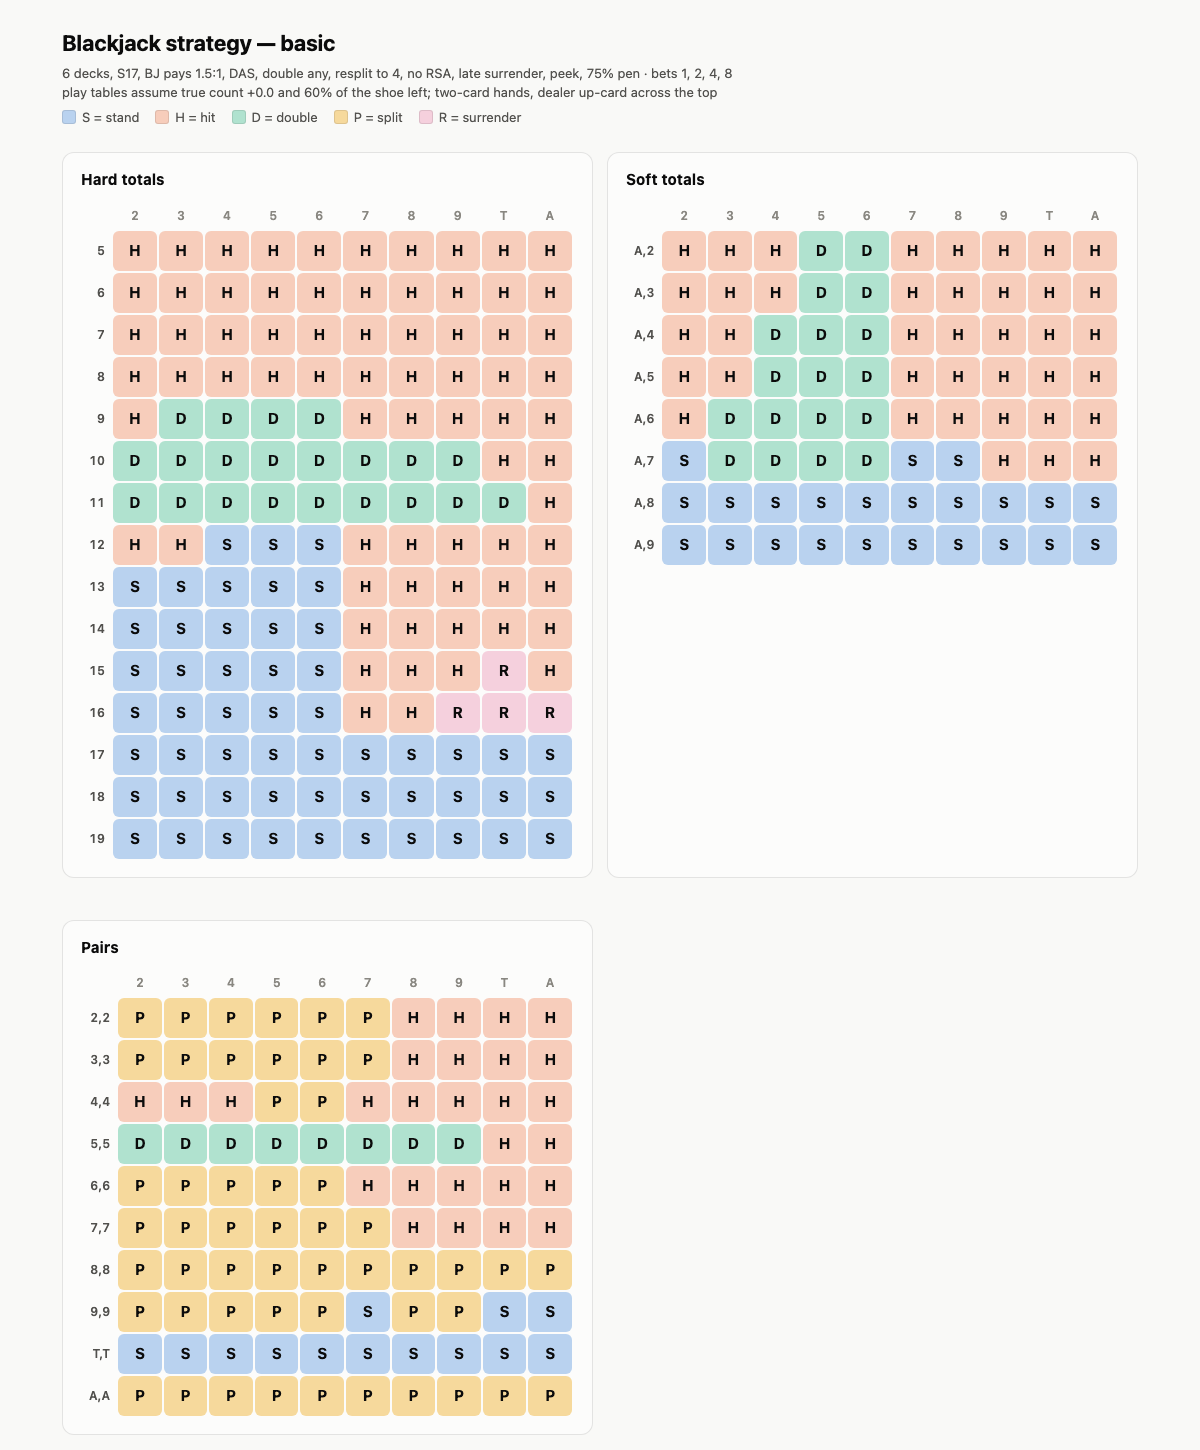
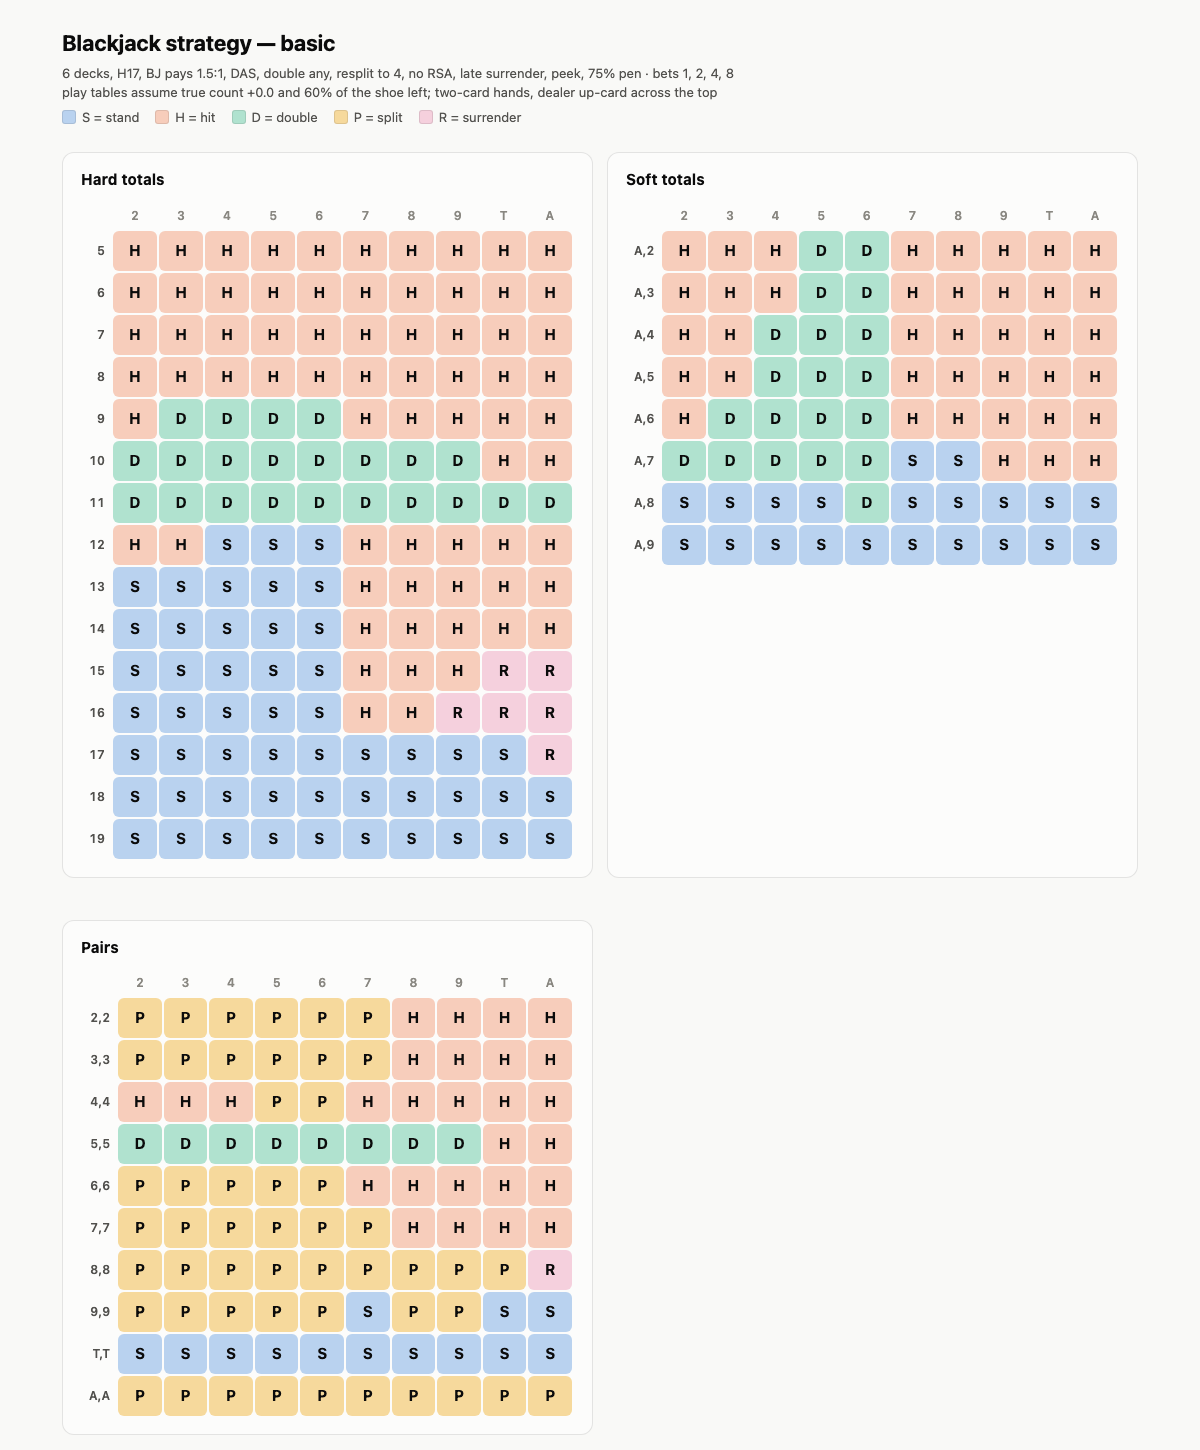
Default rules: dealer hits soft 17 (H17); --s17 flag; H17 basic-strategy chart + docs

diff --git a/blackjack_rl/web/static/index.html b/blackjack_rl/web/static/index.html
@@ -133,7 +133,7 @@
         <label>Double only on <input name="double_on" type="text" placeholder="any (or 9,10,11)"></label>
       </div>
       <div class="checks">
-        <label><input type="checkbox" name="dealer_hits_soft_17"> Dealer hits soft 17</label>
+        <label><input type="checkbox" name="dealer_hits_soft_17" checked> Dealer hits soft 17</label>
         <label><input type="checkbox" name="double_after_split" checked> Double after split</label>
         <label><input type="checkbox" name="surrender" checked> Late surrender</label>
         <label><input type="checkbox" name="dealer_peeks" checked> Dealer peeks</label>

diff --git a/tests/test_basic_strategy.py b/tests/test_basic_strategy.py
@@ -8,8 +8,27 @@ ALL = [S, H, D, P, R]
 NO_DOUBLE = [S, H]
 
 
+S17 = Rules(dealer_hits_soft_17=False)
+
+
+def test_default_rules_are_h17():
+    assert Rules().dealer_hits_soft_17 is True
+
+
+def test_h17_specific_cells():
+    r = Rules()  # H17
+    assert basic_strategy(11, False, False, 1, ALL, r) == D              # 11 vs A: double under H17
+    assert basic_strategy(19, True, False, 6, ALL, r) == D               # A,8 vs 6: double under H17
+    assert basic_strategy(18, True, False, 2, ALL, r) == D               # A,7 vs 2: double under H17
+    assert basic_strategy(15, False, False, 1, ALL, r) == R              # 15 vs A: surrender under H17
+    assert basic_strategy(17, False, False, 1, ALL, r) == R              # 17 vs A: surrender under H17
+    assert basic_strategy(17, False, False, 1, NO_DOUBLE, r) == S        # ... else stand
+    assert basic_strategy(16, False, True, 1, ALL, r) == R               # 8,8 vs A: surrender under H17
+    assert basic_strategy(16, False, True, 1, [S, H, D, P], r) == P      # ... else split
+
+
 def test_known_cells_s17():
-    r = Rules()
+    r = S17
     assert basic_strategy(16, False, False, 10, ALL, r) == R
     assert basic_strategy(16, False, False, 10, NO_DOUBLE, r) == H       # can't surrender -> hit
     assert basic_strategy(16, False, False, 6, ALL, r) == S
@@ -24,7 +43,7 @@ def test_known_cells_s17():
     assert basic_strategy(12, True, True, 10, NO_DOUBLE, r) == H         # A,A can't split -> hit soft 12
     assert basic_strategy(10, False, True, 9, ALL, r) == D               # 5,5 double
     assert basic_strategy(8, False, True, 5, ALL, r) == P                # 4,4 vs 5 split (DAS)
-    assert basic_strategy(8, False, True, 5, ALL, Rules(double_after_split=False)) == H
+    assert basic_strategy(8, False, True, 5, ALL, Rules(dealer_hits_soft_17=False, double_after_split=False)) == H
     assert basic_strategy(12, False, False, 2, ALL, r) == H
     assert basic_strategy(12, False, False, 4, ALL, r) == S
 
@@ -40,8 +59,8 @@ def test_hi_lo_bet_index():
 def test_basic_strategy_beats_random_and_edge_is_small():
     env = BlackjackEnv(bet_sizes=(1,))
     stats = evaluate(BasicStrategyAgent(env.rules), env, 30_000, seed=5)
-    # true value is about -0.4% of the initial bet; allow generous Monte-Carlo slack
-    assert -0.02 < stats.ev_per_round < 0.01
+    # true value is about -0.6% of the initial bet (H17); allow generous Monte-Carlo slack
+    assert -0.025 < stats.ev_per_round < 0.01
     from blackjack_rl.agents import RandomAgent
     rnd = evaluate(RandomAgent(seed=1), env, 5_000, seed=5)
     assert rnd.ev_per_round < -0.2

diff --git a/tests/test_game.py b/tests/test_game.py
@@ -37,20 +37,28 @@ def test_no_peek_player_loses_doubled_bet(scripted):
     assert g.round_profit == -2
 
 
-def test_dealer_stands_soft_17_by_default(scripted):
-    g = BlackjackGame(shoe=scripted([10, 1, 8, 6]))  # dealer A,6 = soft 17
+def test_dealer_hits_soft_17_by_default(scripted):
+    g = BlackjackGame(shoe=scripted([10, 1, 8, 6, 3]))  # dealer A,6 = soft 17 -> hits, draws 3 -> 20
+    g.start_round(1)
+    play(g, Action.STAND)
+    assert g.dealer_hand.total == 20 and len(g.dealer_hand.cards) == 3
+    assert g.round_profit == -1
+
+
+def test_dealer_stands_soft_17_with_s17(scripted):
+    g = BlackjackGame(rules=Rules(dealer_hits_soft_17=False), shoe=scripted([10, 1, 8, 6]))
     g.start_round(1)
     play(g, Action.STAND)
     assert g.dealer_hand.total == 17 and len(g.dealer_hand.cards) == 2
     assert g.round_profit == 1  # 18 beats 17
 
 
-def test_dealer_hits_soft_17_with_h17(scripted):
-    g = BlackjackGame(rules=Rules(dealer_hits_soft_17=True), shoe=scripted([10, 1, 8, 6, 3]))
+def test_dealer_stands_on_hard_17_under_h17(scripted):
+    g = BlackjackGame(shoe=scripted([10, 10, 8, 7]))  # dealer T,7 = hard 17 -> stands
     g.start_round(1)
     play(g, Action.STAND)
-    assert g.dealer_hand.total == 20 and len(g.dealer_hand.cards) == 3
-    assert g.round_profit == -1
+    assert g.dealer_hand.total == 17 and len(g.dealer_hand.cards) == 2
+    assert g.round_profit == 1
 
 
 def test_dealer_hits_16_and_busts(scripted):

diff --git a/blackjack_rl/engine/rules.py b/blackjack_rl/engine/rules.py
@@ -9,7 +9,7 @@ from typing import Optional, Tuple
 class Rules:
     num_decks: int = 6
     penetration: float = 0.75          # fraction of the shoe dealt before a reshuffle
-    dealer_hits_soft_17: bool = False   # False = S17 (dealer stands on all 17s)
+    dealer_hits_soft_17: bool = True    # H17 (the usual US rule); False = S17, dealer stands on all 17s
     blackjack_payout: float = 1.5       # 3:2. Use 1.2 for the (bad) 6:5 tables.
     dealer_peeks: bool = True           # dealer checks for blackjack before the player acts
     double_after_split: bool = True     # DAS
@@ -43,6 +43,6 @@ class Rules:
 
 
 # A few common presets
-VEGAS_STRIP = Rules(num_decks=6, dealer_hits_soft_17=False, double_after_split=True, surrender=True)
-VEGAS_DOWNTOWN = Rules(num_decks=6, dealer_hits_soft_17=True, double_after_split=True, surrender=True)
+VEGAS_STRIP = Rules(num_decks=6, dealer_hits_soft_17=False, double_after_split=True, surrender=True)   # S17 (high-limit style)
+VEGAS_DOWNTOWN = Rules(num_decks=6, dealer_hits_soft_17=True, double_after_split=True, surrender=True)  # H17 (= defaults)
 SINGLE_DECK = Rules(num_decks=1, penetration=0.6, dealer_hits_soft_17=True, double_on=(9, 10, 11), surrender=False)

diff --git a/blackjack_rl/cli/common.py b/blackjack_rl/cli/common.py
@@ -12,7 +12,8 @@ def add_rules_args(p: argparse.ArgumentParser) -> None:
     g = p.add_argument_group("table rules")
     g.add_argument("--decks", type=int, default=6)
     g.add_argument("--penetration", type=float, default=0.75, help="fraction of shoe dealt before reshuffle")
-    g.add_argument("--h17", action="store_true", help="dealer hits soft 17 (default: stands)")
+    g.add_argument("--s17", action="store_true", help="dealer stands on soft 17 (default: hits soft 17, H17)")
+    g.add_argument("--h17", action="store_true", help=argparse.SUPPRESS)  # legacy no-op: H17 is the default
     g.add_argument("--bj-payout", type=float, default=1.5)
     g.add_argument("--no-das", action="store_true", help="no doubling after split")
     g.add_argument("--double-on", type=str, default=None, help="e.g. 9,10,11 to restrict doubling (default: any)")
@@ -29,7 +30,7 @@ def rules_from_args(a: argparse.Namespace) -> Rules:
     return Rules(
         num_decks=a.decks,
         penetration=a.penetration,
-        dealer_hits_soft_17=a.h17,
+        dealer_hits_soft_17=not a.s17,
         blackjack_payout=a.bj_payout,
         dealer_peeks=not a.no_peek,
         double_after_split=not a.no_das,

diff --git a/tests/test_strategy_report.py b/tests/test_strategy_report.py
@@ -11,6 +11,7 @@ def test_build_report_basic_and_hilo_match_basic_strategy():
     assert rep.agreement(rep.hard) == (150, 150)
     assert rep.agreement(rep.soft) == (80, 80) and rep.agreement(rep.pairs) == (100, 100)
     assert rep.hard[(16, 10)].action == "R" and rep.pairs[(8, 10)].action == "P" and rep.soft[(18, 3)].action == "D"
+    assert rep.hard[(11, 1)].action == "D" and rep.pairs[(8, 1)].action == "R"   # H17-specific cells
     assert rep.agent_bets == [1.0] * len(TC_RANGE)
     hilo = build_report("hilo", BasicStrategyAgent(env.rules, count_bets=True), env, 0.0, 0.6, None)
     assert hilo.agent_bets == hilo.hilo_bets and hilo.hilo_bets[-1] == 8.0 and hilo.hilo_bets[0] == 1.0

diff --git a/tests/test_web.py b/tests/test_web.py
@@ -45,8 +45,8 @@ def test_agent_step_plays_whole_rounds():
 
 
 def test_rules_from_json():
-    r = rules_from_json({"num_decks": 2, "dealer_hits_soft_17": True, "double_on": "9,10,11", "surrender": False})
-    assert r.num_decks == 2 and r.dealer_hits_soft_17 and r.double_on == (9, 10, 11) and not r.surrender
+    r = rules_from_json({"num_decks": 2, "dealer_hits_soft_17": False, "double_on": "9,10,11", "surrender": False})
+    assert r.num_decks == 2 and not r.dealer_hits_soft_17 and r.double_on == (9, 10, 11) and not r.surrender
     assert rules_from_json({}) == Rules()
 
 

diff --git a/blackjack_rl/agents/basic_strategy.py b/blackjack_rl/agents/basic_strategy.py
@@ -1,8 +1,8 @@
 """Basic strategy (multi-deck) + optional Hi-Lo bet spread.
 
 This is the benchmark the RL agent should converge towards. Basic strategy alone
-plays at roughly -0.4% .. -0.6% of the wager per round on 6D S17 DAS LS; adding a
-count-driven bet spread flips the edge slightly positive.
+plays at roughly -0.6% of the wager per round on 6D H17 DAS LS (-0.4% with S17);
+adding a count-driven bet spread flips the edge slightly positive.
 """
 from __future__ import annotations
 

diff --git a/README.md b/README.md
@@ -39,7 +39,7 @@ pytest
 
 ```bash
 blackjack-web                              # opens http://127.0.0.1:8000; loads checkpoints/ppo.pt + checkpoints/dqn.pt if present
-blackjack-web --checkpoint checkpoints/ppo.pt --checkpoint runs/other.pt --h17 --bets 5,10,25 --port 9000
+blackjack-web --checkpoint checkpoints/ppo.pt --checkpoint runs/other.pt --s17 --bets 5,10,25 --port 9000
 ```
 
 A casino-style table served straight from the RL environment: click chips to bet, keyboard
@@ -54,9 +54,9 @@ small stdlib HTTP server (`blackjack_rl/web`) + vanilla HTML/CSS/JS.
 ### In the terminal
 
 ```bash
-blackjack-play                # 6 decks, S17, DAS, late surrender, bets 1/2/4/8
+blackjack-play                # 6 decks, H17, DAS, late surrender, bets 1/2/4/8
 blackjack-play --hint         # shows the basic-strategy play and Hi-Lo bet suggestion
-blackjack-play --h17 --decks 2 --bets 5,10,25 --hide-count
+blackjack-play --s17 --decks 2 --bets 5,10,25 --hide-count
 ```
 
 Both front-ends drive `BlackjackEnv` directly: you see the same observation the agent gets
@@ -86,8 +86,10 @@ print(info["profit"], info["results"])
 * **Reward:** 0 until the round ends, then the round's profit in bet units (+1.5 for a natural on 1 unit,
   −4 for a lost doubled 2-unit bet, ...).
 * **Illegal actions raise** `ValueError` — use `info["action_mask"]` / `info["legal_actions"]`.
-* Rules are a frozen dataclass (`Rules`): decks, penetration, S17/H17, blackjack payout, peek, DAS,
-  double restrictions, max splits, RSA, hit split aces, late surrender.
+* Rules are a frozen dataclass (`Rules`): decks, penetration, H17/S17, blackjack payout, peek, DAS,
+  double restrictions, max splits, RSA, hit split aces, late surrender. Defaults are the common US
+  shoe game: 6 decks, **dealer hits soft 17**, DAS, late surrender, peek, 3:2, 75 % penetration
+  (`--s17` etc. on every CLI to change them).
 
 ## Baselines and evaluation
 
@@ -98,12 +100,13 @@ blackjack-eval --agent random --rounds 100000
 blackjack-strategy --agent basic                     # print the basic-strategy tables the agent is judged against
 ```
 
-Sanity check: with the default rules basic strategy measures **−0.40 % ± 0.22 % of the initial bet
-over 1M rounds**, matching the published house edge for 6D / S17 / DAS / LS.
+Sanity check: with the default rules basic strategy measures **−0.62 % ± 0.22 % of the initial bet
+over 1M rounds**, matching the published house edge for 6D / H17 / DAS / LS (with `--s17` it measures
+−0.40 % ± 0.22 %, again matching the published ≈ −0.4 %).
 
 ## Basic strategy reference
 
-The chart the agents are measured against — default table (6 decks, S17, DAS, late surrender),
+The chart the agents are measured against — default table (6 decks, **H17**, DAS, late surrender),
 as rendered by `blackjack-strategy --agent basic --open`:
 
 ![Basic strategy chart: hard totals, soft totals and pairs vs dealer up-card](docs/screenshot-basic-strategy.png)
@@ -121,13 +124,13 @@ HARD          2   3   4   5   6   7   8   9   T   A
 8              H   H   H   H   H   H   H   H   H   H
 9              H   D   D   D   D   H   H   H   H   H
 10             D   D   D   D   D   D   D   D   H   H
-11             D   D   D   D   D   D   D   D   D   H
+11             D   D   D   D   D   D   D   D   D   D
 12             H   H   S   S   S   H   H   H   H   H
 13             S   S   S   S   S   H   H   H   H   H
 14             S   S   S   S   S   H   H   H   H   H
-15             S   S   S   S   S   H   H   H   R   H
+15             S   S   S   S   S   H   H   H   R   R
 16             S   S   S   S   S   H   H   R   R   R
-17             S   S   S   S   S   S   S   S   S   S
+17             S   S   S   S   S   S   S   S   S   R
 18             S   S   S   S   S   S   S   S   S   S
 19             S   S   S   S   S   S   S   S   S   S
 
@@ -137,8 +140,8 @@ A,3            H   H   H   D   D   H   H   H   H   H
 A,4            H   H   D   D   D   H   H   H   H   H
 A,5            H   H   D   D   D   H   H   H   H   H
 A,6            H   D   D   D   D   H   H   H   H   H
-A,7            S   D   D   D   D   S   S   H   H   H
-A,8            S   S   S   S   S   S   S   S   S   S
+A,7            D   D   D   D   D   S   S   H   H   H
+A,8            S   S   S   S   D   S   S   S   S   S
 A,9            S   S   S   S   S   S   S   S   S   S
 
 PAIRS         2   3   4   5   6   7   8   9   T   A
@@ -148,7 +151,7 @@ PAIRS         2   3   4   5   6   7   8   9   T   A
 5,5            D   D   D   D   D   D   D   D   H   H
 6,6            P   P   P   P   P   H   H   H   H   H
 7,7            P   P   P   P   P   P   H   H   H   H
-8,8            P   P   P   P   P   P   P   P   P   P
+8,8            P   P   P   P   P   P   P   P   P   R
 9,9            P   P   P   P   P   S   P   P   S   S
 T,T            S   S   S   S   S   S   S   S   S   S
 A,A            P   P   P   P   P   P   P   P   P   P
@@ -156,9 +159,11 @@ A,A            P   P   P   P   P   P   P   P   P   P
 
 </details>
 
-`D` falls back to hit (hard 9–11, soft ≤ 17) or stand (soft 18) when doubling isn't allowed, `R` falls
-back to hit — the same fallback logic `BasicStrategyAgent` uses. `--h17`, `--no-das`, `--no-surrender`,
-`--decks N` etc. regenerate the chart for other tables; `--agent hilo` adds the Hi-Lo bet spread.
+`D` falls back to hit (hard 9–11, soft ≤ 17) or stand (soft 18/19) when doubling isn't allowed, `R` falls
+back to hit (or stand for 17 vs A) — the same fallback logic `BasicStrategyAgent` uses. The H17-specific
+cells are 11 vs A double, A,8 vs 6 double, A,7 vs 2 double, and surrender on 15 vs A, 17 vs A and 8,8 vs A.
+`--s17`, `--no-das`, `--no-surrender`, `--decks N` etc. regenerate the chart for other tables;
+`--agent hilo` adds the Hi-Lo bet spread.
 
 ## Vectorized env
 
@@ -215,8 +220,7 @@ the bet spread — takes millions of rounds; `--rounds`, `--lr`, `--batch-size`,
 `--eps-decay-frac` and `--resume` are the knobs. `--bets 1` trains a flat-betting player if you only
 care about the playing decisions.
 
-Reference points (6D S17 DAS LS, bets 1/2/4/8, M2 Max CPU — the network is far too small for a
-GPU to help, `--device mps` is slower):
+Reference points (6D H17 DAS LS, bets 1/2/4/8, Apple M2 Max):
 
 | run | wall time | EV / unit wagered | agreement with basic strategy (hard / soft / pairs) | bet spread |
 |---|---|---|---|---|
